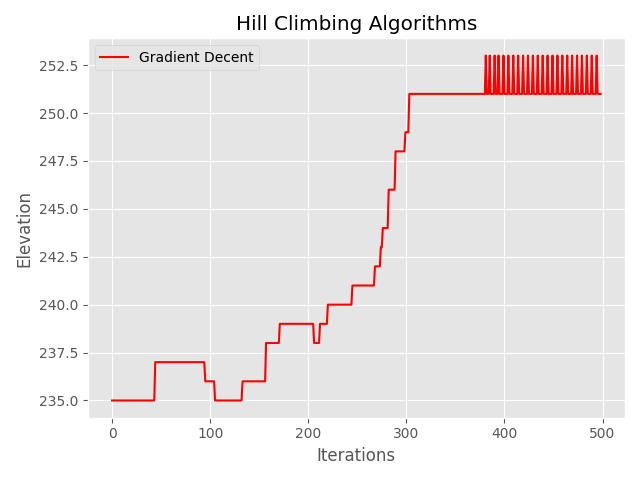
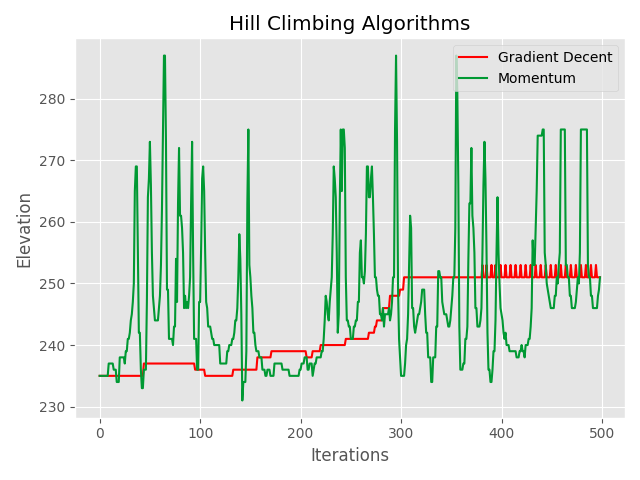
restructure

diff --git a/src/helpers.py b/src/helpers.py
@@ -35,35 +35,3 @@ def calculate_gradient(rmap, theta, j_history, n_iter):
     print(f'Elevation at {theta} is {elevation}')
 
     return np.array((lat_slope, lon_slope))
-
-
-def gradient_descent(rmap, theta, alpha=.01, num_iters=10000):
-    j_history = np.zeros(shape=(num_iters, 3))
-
-    for i in range(num_iters):
-        slope = calculate_gradient(rmap, theta, j_history, i)
-        if slope is None:
-            break
-
-        step = -alpha * slope
-        print(f'({i}/{num_iters}): Update is {step}')
-        theta += step
-
-    return theta, j_history[:i]
-
-
-def gradient_descent_w_momentum(rmap, theta, alpha=.01, gamma=.99, num_iters=10000):
-    j_history = np.zeros(shape=(num_iters, 3))
-    velocity = np.zeros_like(theta)
-
-    for i in range(num_iters):
-        slope = calculate_gradient(rmap, theta, j_history, i)
-        if slope is None:
-            break
-
-        velocity = gamma * velocity - alpha * slope
-        print(f'({i}/{num_iters}): Update is {velocity}')
-
-        theta += velocity
-
-    return theta, j_history[:i]

diff --git a/src/algorithms.py b/src/algorithms.py
@@ -1,0 +1,34 @@
+import numpy as np
+from .helpers import calculate_gradient
+
+
+def gradient_descent(rmap, theta, alpha=.01, num_iters=10000):
+    j_history = np.zeros(shape=(num_iters, 3))
+
+    for i in range(num_iters):
+        slope = calculate_gradient(rmap, theta, j_history, i)
+        if slope is None:
+            break
+
+        step = -alpha * slope
+        print(f'({i}/{num_iters}): Update is {step}')
+        theta += step
+
+    return theta, j_history[:i]
+
+
+def gradient_descent_w_momentum(rmap, theta, alpha=.01, gamma=.99, num_iters=10000):
+    j_history = np.zeros(shape=(num_iters, 3))
+    velocity = np.zeros_like(theta)
+
+    for i in range(num_iters):
+        slope = calculate_gradient(rmap, theta, j_history, i)
+        if slope is None:
+            break
+
+        velocity = gamma * velocity - alpha * slope
+        print(f'({i}/{num_iters}): Update is {velocity}')
+
+        theta += velocity
+
+    return theta, j_history[:i]

diff --git a/main.py b/main.py
@@ -2,8 +2,8 @@ import csv
 import os
 import json
 import numpy as np
-from rastermap import RasterMap
-import algorithms as algo
+from src.rastermap import RasterMap
+import src.algorithms as algo
 import matplotlib.pyplot as plt
 
 args = json.load(open('args.json'))
